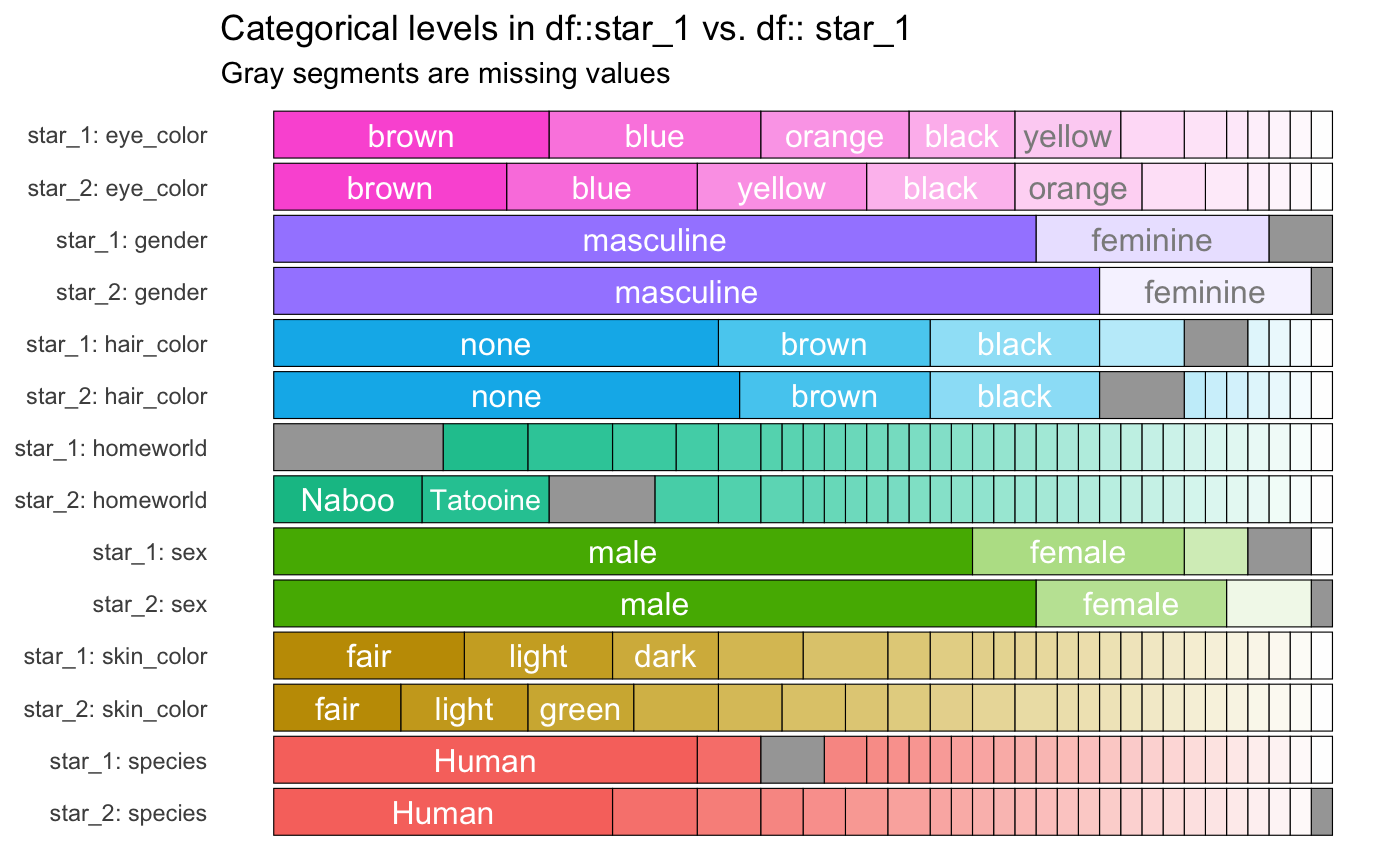
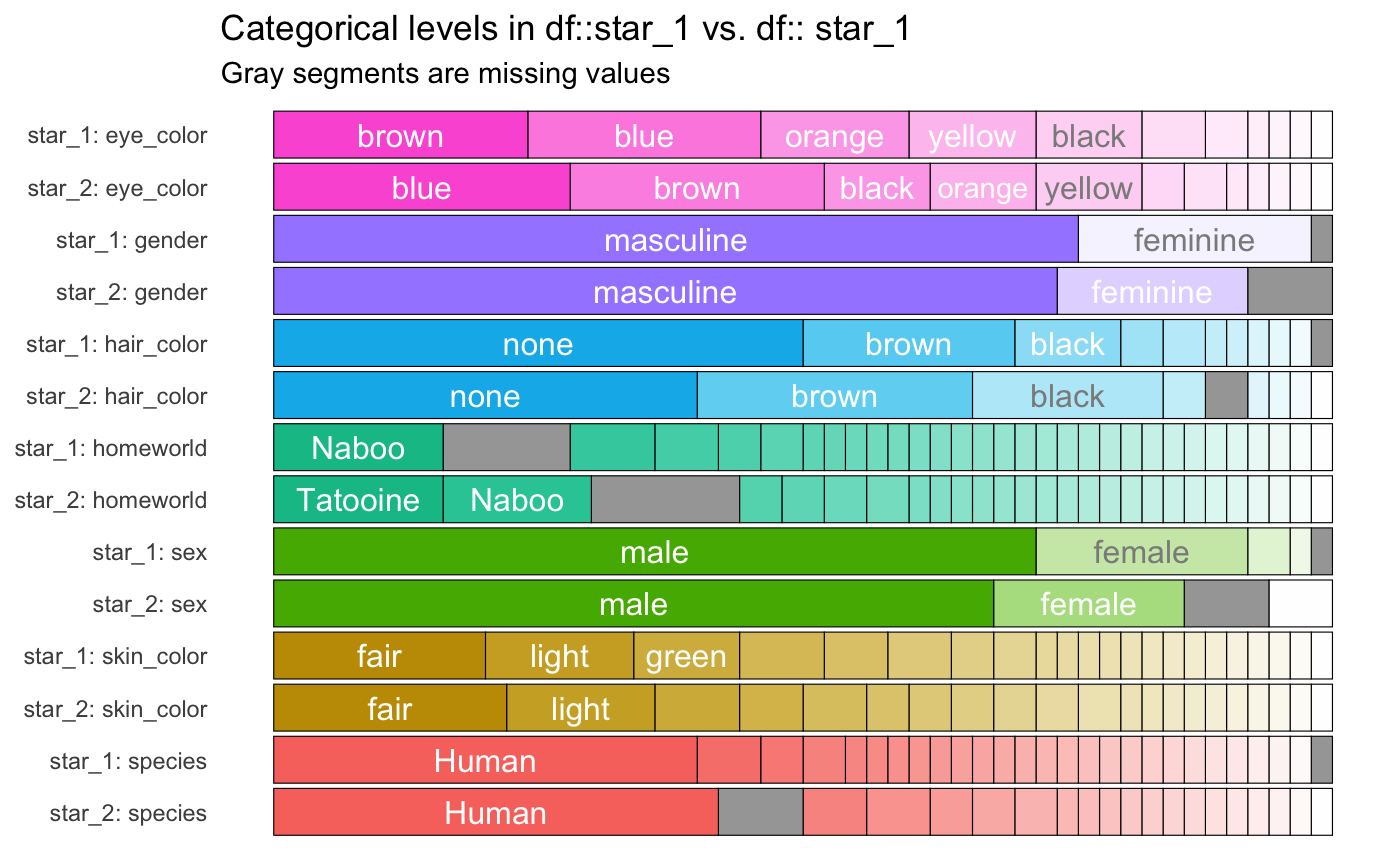
cran v0.0.9

diff --git a/docs/articles/pkgdown/inspect_cat_examples.html b/docs/articles/pkgdown/inspect_cat_examples.html
@@ -38,7 +38,7 @@
       </button>
       <span class="navbar-brand">
         <a class="navbar-link" href="../../index.html">inspectdf</a>
-        <span class="version label label-default" data-toggle="tooltip" data-placement="bottom" title="Released version">0.0.8</span>
+        <span class="version label label-default" data-toggle="tooltip" data-placement="bottom" title="Released version">0.0.9</span>
       </span>
     </div>
 
@@ -194,16 +194,16 @@
 <p>When two dataframes are compared using <code><a href="../../reference/inspect_cat.html">inspect_cat()</a></code>, list columns are returned for categorical columns common to both: <code>lvls_1</code> and <code>lvl2_2</code>. In addition, the Jensen-Shannon divergence (<code>jsd</code>) and <em>p</em> values associated with Fisher’s exact test (<code>fisher_p</code>) are returned to enable comparison of the distribution of levels in each pair of columns.</p>
 <div class="sourceCode" id="cb9"><html><body><pre class="r"><span class="fu"><a href="../../reference/inspect_cat.html">inspect_cat</a></span>(<span class="no">star_1</span>, <span class="no">star_2</span>)</pre></body></html></div>
 <pre><code>## # A tibble: 8 x 5
-##   col_name        jsd fisher_p lvls_1            lvls_2           
-##   &lt;chr&gt;         &lt;dbl&gt;    &lt;dbl&gt; &lt;named list&gt;      &lt;named list&gt;     
-## 1 eye_color   0.0310     0.983 &lt;tibble [12 × 3]&gt; &lt;tibble [11 × 3]&gt;
-## 2 gender      0.00876    0.645 &lt;tibble [3 × 3]&gt;  &lt;tibble [3 × 3]&gt; 
-## 3 hair_color  0.0355     0.987 &lt;tibble [9 × 3]&gt;  &lt;tibble [11 × 3]&gt;
-## 4 homeworld   0.274      0.937 &lt;tibble [33 × 3]&gt; &lt;tibble [31 × 3]&gt;
-## 5 name       NA         NA     &lt;tibble [50 × 3]&gt; &lt;NULL&gt;           
-## 6 sex         0.0199     0.792 &lt;tibble [5 × 3]&gt;  &lt;tibble [4 × 3]&gt; 
-## 7 skin_color  0.169      0.757 &lt;tibble [24 × 3]&gt; &lt;tibble [24 × 3]&gt;
-## 8 species     0.191      0.984 &lt;tibble [26 × 3]&gt; &lt;tibble [26 × 3]&gt;</code></pre>
+##   col_name       jsd fisher_p lvls_1            lvls_2           
+##   &lt;chr&gt;        &lt;dbl&gt;    &lt;dbl&gt; &lt;named list&gt;      &lt;named list&gt;     
+## 1 eye_color   0.0420    0.996 &lt;tibble [11 × 3]&gt; &lt;tibble [12 × 3]&gt;
+## 2 gender      0.0154    0.435 &lt;tibble [3 × 3]&gt;  &lt;tibble [3 × 3]&gt; 
+## 3 hair_color  0.0677    0.934 &lt;tibble [11 × 3]&gt; &lt;tibble [9 × 3]&gt; 
+## 4 homeworld   0.323     0.974 &lt;tibble [31 × 3]&gt; &lt;tibble [27 × 3]&gt;
+## 5 name       NA        NA     &lt;tibble [50 × 3]&gt; &lt;NULL&gt;           
+## 6 sex         0.0261    0.655 &lt;tibble [5 × 3]&gt;  &lt;tibble [4 × 3]&gt; 
+## 7 skin_color  0.167     0.966 &lt;tibble [22 × 3]&gt; &lt;tibble [21 × 3]&gt;
+## 8 species     0.223     0.987 &lt;tibble [27 × 3]&gt; &lt;tibble [20 × 3]&gt;</code></pre>
 <div class="sourceCode" id="cb11"><html><body><pre class="r"><span class="fu"><a href="../../reference/inspect_cat.html">inspect_cat</a></span>(<span class="no">star_1</span>, <span class="no">star_2</span>) <span class="kw">%&gt;%</span> <span class="fu"><a href="../../reference/show_plot.html">show_plot</a></span>()</pre></body></html></div>
 <p><img src="inspect_cat_examples_files/figure-html/unnamed-chunk-8-1.png" width="700"></p>
 </div>

diff --git a/docs/articles/pkgdown/inspect_mem_examples.html b/docs/articles/pkgdown/inspect_mem_examples.html
@@ -38,7 +38,7 @@
       </button>
       <span class="navbar-brand">
         <a class="navbar-link" href="../../index.html">inspectdf</a>
-        <span class="version label label-default" data-toggle="tooltip" data-placement="bottom" title="Released version">0.0.8</span>
+        <span class="version label label-default" data-toggle="tooltip" data-placement="bottom" title="Released version">0.0.9</span>
       </span>
     </div>
 
@@ -176,22 +176,22 @@
 <p>When a second dataframe is provided, <code><a href="../../reference/inspect_mem.html">inspect_mem()</a></code> will create a dataframe comparing the size of each column for both input dataframes. The summaries for the first and second dataframes are show in columns with names appended with <code>_1</code> and <code>_2</code>, respectively.</p>
 <div class="sourceCode" id="cb8"><html><body><pre class="r"><span class="fu"><a href="../../reference/inspect_mem.html">inspect_mem</a></span>(<span class="no">star_1</span>, <span class="no">star_2</span>)</pre></body></html></div>
 <pre><code>## # A tibble: 14 x 5
-##    col_name   size_1    size_2    pcnt_1 pcnt_2
-##    &lt;chr&gt;      &lt;chr&gt;     &lt;chr&gt;      &lt;dbl&gt;  &lt;dbl&gt;
-##  1 films      11.3 Kb   11.13 Kb  35.0    39.2 
-##  2 starships  4.16 Kb   3.93 Kb   12.9    13.8 
-##  3 name       3.57 Kb   &lt;NA&gt;      11.1    NA   
-##  4 vehicles   3.14 Kb   3.23 Kb    9.72   11.4 
-##  5 homeworld  2.31 Kb   2.33 Kb    7.16    8.20
-##  6 skin_color 1.85 Kb   1.8 Kb     5.73    6.36
-##  7 species    1.7 Kb    1.88 Kb    5.27    6.60
-##  8 eye_color  1.05 Kb   1.11 Kb    3.24    3.91
-##  9 hair_color 896 bytes 904 bytes  2.71    3.11
-## 10 sex        680 bytes 680 bytes  2.06    2.34
-## 11 gender     576 bytes 576 bytes  1.74    1.98
-## 12 mass       448 bytes 448 bytes  1.35    1.54
-## 13 birth_year 448 bytes 448 bytes  1.35    1.54
-## 14 height     248 bytes &lt;NA&gt;       0.750  NA</code></pre>
+##    col_name   size_1     size_2    pcnt_1 pcnt_2
+##    &lt;chr&gt;      &lt;chr&gt;      &lt;chr&gt;      &lt;dbl&gt;  &lt;dbl&gt;
+##  1 films      11.79 Kb   10.99 Kb  35.5    38.4 
+##  2 starships  4.3 Kb     4.17 Kb   13.0    14.6 
+##  3 name       3.59 Kb    &lt;NA&gt;      10.8    NA   
+##  4 vehicles   3.31 Kb    3.55 Kb    9.97   12.4 
+##  5 homeworld  2.25 Kb    2.2 Kb     6.77    7.70
+##  6 species    1.89 Kb    1.71 Kb    5.69    5.98
+##  7 skin_color 1.8 Kb     1.79 Kb    5.41    6.25
+##  8 eye_color  1016 bytes 1.16 Kb    2.99    4.04
+##  9 hair_color 968 bytes  960 bytes  2.85    3.28
+## 10 sex        680 bytes  680 bytes  2.00    2.32
+## 11 gender     576 bytes  576 bytes  1.69    1.97
+## 12 mass       448 bytes  448 bytes  1.32    1.53
+## 13 birth_year 448 bytes  448 bytes  1.32    1.53
+## 14 height     248 bytes  &lt;NA&gt;       0.729  NA</code></pre>
 <div class="sourceCode" id="cb10"><html><body><pre class="r"><span class="fu"><a href="../../reference/inspect_mem.html">inspect_mem</a></span>(<span class="no">star_1</span>, <span class="no">star_2</span>) <span class="kw">%&gt;%</span> <span class="fu"><a href="../../reference/show_plot.html">show_plot</a></span>()</pre></body></html></div>
 <p><img src="inspect_mem_examples_files/figure-html/unnamed-chunk-8-1.png" width="700"></p>
 </div>

diff --git a/docs/articles/pkgdown/inspect_imb_examples.html b/docs/articles/pkgdown/inspect_imb_examples.html
@@ -38,7 +38,7 @@
       </button>
       <span class="navbar-brand">
         <a class="navbar-link" href="../../index.html">inspectdf</a>
-        <span class="version label label-default" data-toggle="tooltip" data-placement="bottom" title="Released version">0.0.8</span>
+        <span class="version label label-default" data-toggle="tooltip" data-placement="bottom" title="Released version">0.0.9</span>
       </span>
     </div>
 
@@ -157,16 +157,16 @@
 <p>When a second dataframe is provided, <code><a href="../../reference/inspect_imb.html">inspect_imb()</a></code> returns a tibble that compares the frequency of the most common categorical values of the first dataframe to those in the second. The <code>p_value</code> column contains a measure of evidence for whether the true frequencies are equal or not.</p>
 <div class="sourceCode" id="cb6"><html><body><pre class="r"><span class="fu"><a href="../../reference/inspect_imb.html">inspect_imb</a></span>(<span class="no">star_1</span>, <span class="no">star_2</span>)</pre></body></html></div>
 <pre><code>## # A tibble: 8 x 7
-##   col_name   value            pcnt_1 cnt_1 pcnt_2 cnt_2 p_value
-##   &lt;chr&gt;      &lt;chr&gt;             &lt;dbl&gt; &lt;int&gt;  &lt;dbl&gt; &lt;int&gt;   &lt;dbl&gt;
-## 1 gender     masculine            70    35     84    42   0.154
-## 2 sex        male                 62    31     78    39   0.127
-## 3 species    Human                40    20     48    24   0.546
-## 4 hair_color none                 38    19     36    18   1    
-## 5 eye_color  blue                 24    12     30    15   0.652
-## 6 skin_color fair                 20    10     22    11   1.00 
-## 7 homeworld  Naboo                18     9     NA    NA  NA    
-## 8 name       Anakin Skywalker      2     1     NA    NA  NA</code></pre>
+##   col_name   value     pcnt_1 cnt_1 pcnt_2 cnt_2 p_value
+##   &lt;chr&gt;      &lt;chr&gt;      &lt;dbl&gt; &lt;int&gt;  &lt;dbl&gt; &lt;int&gt;   &lt;dbl&gt;
+## 1 gender     masculine    74     37     78    39   0.815
+## 2 sex        male         64     32     70    35   0.671
+## 3 hair_color none         42     21     40    20   1.00 
+## 4 species    Human        34     17     34    17   1.00 
+## 5 eye_color  brown        28.    14     NA    NA  NA    
+## 6 skin_color fair         16      8     20    10   0.795
+## 7 homeworld  Naboo        14.     7     NA    NA  NA    
+## 8 name       Ackbar        2      1     NA    NA  NA</code></pre>
 <div class="sourceCode" id="cb8"><html><body><pre class="r"><span class="fu"><a href="../../reference/inspect_imb.html">inspect_imb</a></span>(<span class="no">star_1</span>, <span class="no">star_2</span>) <span class="kw">%&gt;%</span> <span class="fu"><a href="../../reference/show_plot.html">show_plot</a></span>()</pre></body></html></div>
 <p><img src="inspect_imb_examples_files/figure-html/unnamed-chunk-6-1.png" width="700"></p>
 <ul>

diff --git a/docs/news/index.html b/docs/news/index.html
@@ -79,7 +79,7 @@
       </button>
       <span class="navbar-brand">
         <a class="navbar-link" href="../index.html">inspectdf</a>
-        <span class="version label label-default" data-toggle="tooltip" data-placement="bottom" title="Released version">0.0.8</span>
+        <span class="version label label-default" data-toggle="tooltip" data-placement="bottom" title="Released version">0.0.9</span>
       </span>
     </div>
 
@@ -152,9 +152,16 @@
       <small>Source: <a href='http://github.com/alastairrushworth/inspectdf/blob/master/NEWS.md'><code>NEWS.md</code></a></small>
     </div>
 
-    <div id="inspectdf-0089000" class="section level1">
-<h1 class="page-header" data-toc-text="0.0.8.9000">
-<a href="#inspectdf-0089000" class="anchor"></a><small> Unreleased </small><code>inspectdf</code> 0.0.8.9000</h1>
+    <div id="inspectdf-009" class="section level1">
+<h1 class="page-header" data-toc-text="0.0.9">
+<a href="#inspectdf-009" class="anchor"></a><small> Unreleased </small><code>inspectdf</code> 0.0.9</h1>
+<ul>
+<li>Minor change, ensuring all functions use <code>return</code> properly.</li>
+</ul>
+</div>
+    <div id="inspectdf-008" class="section level1">
+<h1 class="page-header" data-toc-text="0.0.8">
+<a href="#inspectdf-008" class="anchor"></a><small> 2020-06-25 </small><code>inspectdf</code> 0.0.8</h1>
 <ul>
 <li>
 <strong>Important change:</strong> the <code>show_plot</code> argument has been removed from all <code>inspect_*()</code> functions. To generate visualisations of data frame summaries, please use the more flexible <code>show_plot(inspect_*())</code> or via the pipe <code>inspect_*() %&gt;% show_plot()</code>.</li>

diff --git a/docs/reference/inspect_cat.html b/docs/reference/inspect_cat.html
@@ -83,7 +83,7 @@ of categorical features separately for each group." />
       </button>
       <span class="navbar-brand">
         <a class="navbar-link" href="../index.html">inspectdf</a>
-        <span class="version label label-default" data-toggle="tooltip" data-placement="bottom" title="Released version">0.0.8</span>
+        <span class="version label label-default" data-toggle="tooltip" data-placement="bottom" title="Released version">0.0.9</span>
       </span>
     </div>
 
@@ -212,7 +212,7 @@ as there are unique combinations of the grouping variables.</p>
 
     <h2 class="hasAnchor" id="examples"><a class="anchor" href="#examples"></a>Examples</h2>
     <pre class="examples"><div class='input'><span class='co'># Load dplyr for starwars data &amp; pipe</span>
-<span class='fu'><a href='https://rdrr.io/r/base/library.html'>library</a></span>(<span class='no'>dplyr</span>)</div><div class='output co'>#&gt; <span class='message'></span>
+<span class='fu'><a href='https://rdrr.io/r/base/library.html'>library</a></span>(<span class='no'>dplyr</span>)</div><div class='output co'>#&gt; <span class='warning'>Warning: package ‘dplyr’ was built under R version 4.0.2</span></div><div class='output co'>#&gt; <span class='message'></span>
 #&gt; <span class='message'>Attaching package: ‘dplyr’</span></div><div class='output co'>#&gt; <span class='message'>The following objects are masked from ‘package:stats’:</span>
 #&gt; <span class='message'></span>
 #&gt; <span class='message'>    filter, lag</span></div><div class='output co'>#&gt; <span class='message'>The following objects are masked from ‘package:base’:</span>

diff --git a/docs/articles/pkgdown/inspect_na_examples.html b/docs/articles/pkgdown/inspect_na_examples.html
@@ -38,7 +38,7 @@
       </button>
       <span class="navbar-brand">
         <a class="navbar-link" href="../../index.html">inspectdf</a>
-        <span class="version label label-default" data-toggle="tooltip" data-placement="bottom" title="Released version">0.0.8</span>
+        <span class="version label label-default" data-toggle="tooltip" data-placement="bottom" title="Released version">0.0.9</span>
       </span>
     </div>
 
@@ -171,14 +171,14 @@
 <pre><code>## # A tibble: 14 x 6
 ##    col_name   cnt_1 pcnt_1 cnt_2 pcnt_2 p_value
 ##    &lt;chr&gt;      &lt;int&gt;  &lt;dbl&gt; &lt;int&gt;  &lt;dbl&gt;   &lt;dbl&gt;
-##  1 birth_year    28     56    26     52   0.841
-##  2 mass          15     30    17     34   0.830
-##  3 hair_color     5     10     1      2   0.207
-##  4 height         3      6    NA     NA  NA    
-##  5 homeworld      3      6     6     12   0.485
-##  6 sex            2      4     2      4   1    
-##  7 gender         2      4     2      4   1    
-##  8 species        2      4     2      4   1    
+##  1 birth_year    27     54    28     56   1.00 
+##  2 mass          17     34    17     34   1.00 
+##  3 homeworld      5     10     6     12   1.00 
+##  4 hair_color     3      6     1      2   0.610
+##  5 height         2      4    NA     NA  NA    
+##  6 sex            1      2     3      6   0.610
+##  7 gender         1      2     3      6   0.610
+##  8 species        1      2     3      6   0.610
 ##  9 name           0      0    NA     NA  NA    
 ## 10 skin_color     0      0     0      0  NA    
 ## 11 eye_color      0      0     0      0  NA    

diff --git a/docs/reference/inspect_num.html b/docs/reference/inspect_num.html
@@ -82,7 +82,7 @@ For grouped dataframes, summarise numeric columns separately for each group." />
       </button>
       <span class="navbar-brand">
         <a class="navbar-link" href="../index.html">inspectdf</a>
-        <span class="version label label-default" data-toggle="tooltip" data-placement="bottom" title="Released version">0.0.8</span>
+        <span class="version label label-default" data-toggle="tooltip" data-placement="bottom" title="Released version">0.0.9</span>
       </span>
     </div>
 

diff --git a/docs/reference/inspect_types.html b/docs/reference/inspect_types.html
@@ -81,7 +81,7 @@ dataframes are supplied, compare column type composition of both dataframes." />
       </button>
       <span class="navbar-brand">
         <a class="navbar-link" href="../index.html">inspectdf</a>
-        <span class="version label label-default" data-toggle="tooltip" data-placement="bottom" title="Released version">0.0.8</span>
+        <span class="version label label-default" data-toggle="tooltip" data-placement="bottom" title="Released version">0.0.9</span>
       </span>
     </div>
 

diff --git a/docs/reference/inspect_cor.html b/docs/reference/inspect_cor.html
@@ -81,7 +81,7 @@ numeric columns in one, two or grouped dataframes." />
       </button>
       <span class="navbar-brand">
         <a class="navbar-link" href="../index.html">inspectdf</a>
-        <span class="version label label-default" data-toggle="tooltip" data-placement="bottom" title="Released version">0.0.8</span>
+        <span class="version label label-default" data-toggle="tooltip" data-placement="bottom" title="Released version">0.0.9</span>
       </span>
     </div>
 

diff --git a/docs/reference/tech.html b/docs/reference/tech.html
@@ -81,7 +81,7 @@ Apple and IBM between 2007 and 2019." />
       </button>
       <span class="navbar-brand">
         <a class="navbar-link" href="../index.html">inspectdf</a>
-        <span class="version label label-default" data-toggle="tooltip" data-placement="bottom" title="Released version">0.0.8</span>
+        <span class="version label label-default" data-toggle="tooltip" data-placement="bottom" title="Released version">0.0.9</span>
       </span>
     </div>
 

diff --git a/docs/reference/inspect_na.html b/docs/reference/inspect_na.html
@@ -83,7 +83,7 @@ separately for each group." />
       </button>
       <span class="navbar-brand">
         <a class="navbar-link" href="../index.html">inspectdf</a>
-        <span class="version label label-default" data-toggle="tooltip" data-placement="bottom" title="Released version">0.0.8</span>
+        <span class="version label label-default" data-toggle="tooltip" data-placement="bottom" title="Released version">0.0.9</span>
       </span>
     </div>
 

diff --git a/docs/reference/inspect_imb.html b/docs/reference/inspect_imb.html
@@ -84,7 +84,7 @@ split by group." />
       </button>
       <span class="navbar-brand">
         <a class="navbar-link" href="../index.html">inspectdf</a>
-        <span class="version label label-default" data-toggle="tooltip" data-placement="bottom" title="Released version">0.0.8</span>
+        <span class="version label label-default" data-toggle="tooltip" data-placement="bottom" title="Released version">0.0.9</span>
       </span>
     </div>
 
